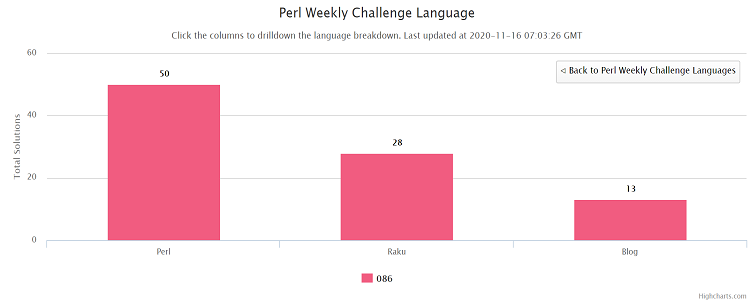
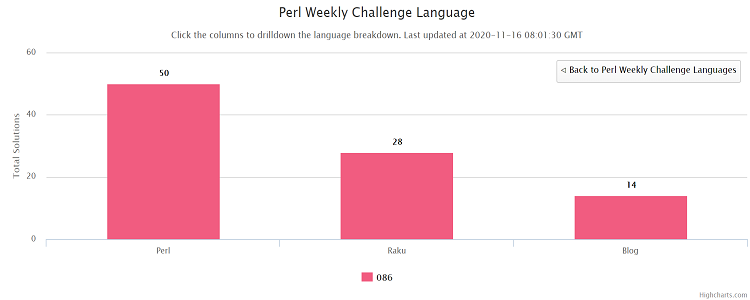
- Tidied up RECAPS 86.

diff --git a/docs/blog/recap-challenge-086/index.html b/docs/blog/recap-challenge-086/index.html
@@ -230,7 +230,7 @@
 <br>
 <h2 id="CONTRIBUTIONSTATS">CONTRIBUTION STATS</h2>
 <hr>
-<p>The total contributions in the week is <code>91</code>.Well done <strong>Team PWC</strong>. I would also like to thanks <code>Raku</code> contributors for catching up.</p>
+<p>The total contributions in the week is <code>92</code>.Well done <strong>Team PWC</strong>. I would also like to thanks <code>Raku</code> contributors for catching up.</p>
 <p><img src="/images/blog/languages-breakdown-86.png" alt="Language Breakdown"></p>
 <br>
 <h2 id="GUESTS">GUESTS</h2>
@@ -359,7 +359,8 @@
 <h3 id="lubos-kolouch">Lubos Kolouch</h3>
 <p><img src="/images/team/lubos_kolouch.jpg" alt="Lubos Kolouch"></p>
 <p>[<a href="https://github.com/manwar/perlweeklychallenge-club/blob/master/challenge-086/lubos-kolouch/perl/ch-1.pl"><strong>PERL #1</strong></a>]
-[<a href="https://github.com/manwar/perlweeklychallenge-club/blob/master/challenge-086/lubos-kolouch/perl/ch-2.pl"><strong>PERL #2</strong></a>]</p>
+[<a href="https://github.com/manwar/perlweeklychallenge-club/blob/master/challenge-086/lubos-kolouch/perl/ch-2.pl"><strong>PERL #2</strong></a>]
+[<a href="https://egroup.kolouch.org/nextcloud/index.php/apps/cms_pico/pico/lubos/202021115_perl_weekly_086"><strong>BLOG #1</strong></a>]</p>
 <hr>
 <h3 id="nuno-vieira">Nuno Vieira</h3>
 <p><img src="/images/team/user.jpg" alt="Nuno Vieira"></p>

diff --git a/content/blog/recap-challenge-086.md b/content/blog/recap-challenge-086.md
@@ -52,7 +52,7 @@ Following members shared solutions to both tasks in `Perl` and `Raku` as well as
 ## CONTRIBUTION STATS {#CONTRIBUTIONSTATS}
 ***
 
-The total contributions in the week is `91`.Well done **Team PWC**. I would also like to thanks `Raku` contributors for catching up.
+The total contributions in the week is `92`.Well done **Team PWC**. I would also like to thanks `Raku` contributors for catching up.
 
 ![Language Breakdown](/images/blog/languages-breakdown-86.png)
 
@@ -241,6 +241,7 @@ Please checkout the technical class of **Andrew**'s **Raku** Knowledge. You can 
 
 [[**PERL #1**](https://github.com/manwar/perlweeklychallenge-club/blob/master/challenge-086/lubos-kolouch/perl/ch-1.pl)]
 [[**PERL #2**](https://github.com/manwar/perlweeklychallenge-club/blob/master/challenge-086/lubos-kolouch/perl/ch-2.pl)]
+[[**BLOG #1**](https://egroup.kolouch.org/nextcloud/index.php/apps/cms_pico/pico/lubos/202021115_perl_weekly_086)]
 
 ***
 
